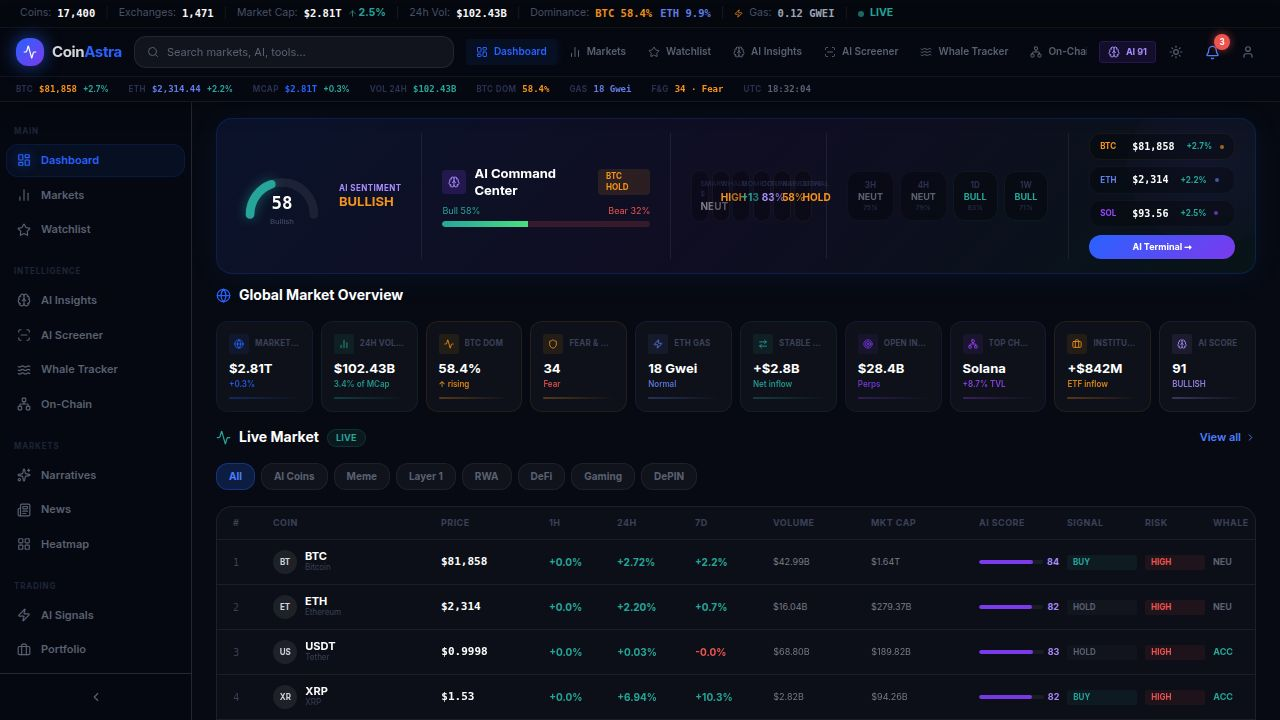
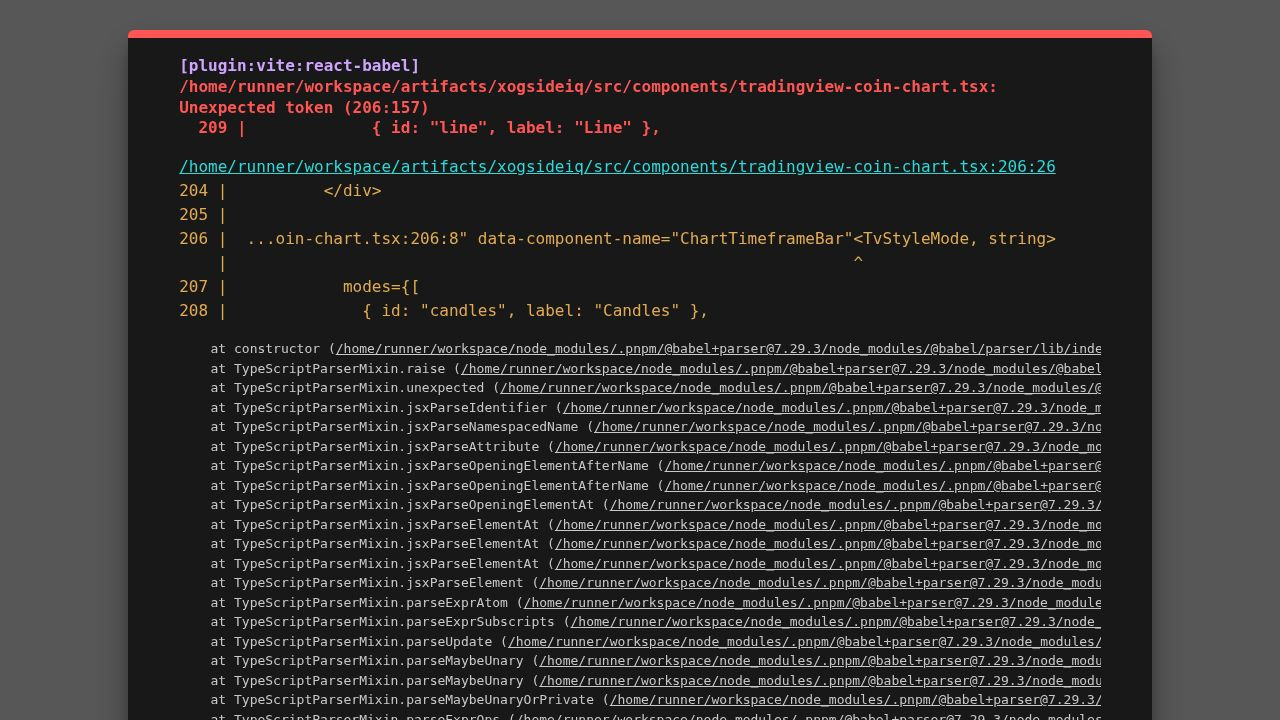
Add gainers/losers tabs and FDV column to markets, and update token detail page header
Fixes a parsing error in tradingview-coin-chart.tsx and introduces a new CmcPriceHeader component in TokenDetail.tsx.

Replit-Commit-Author: Agent
Replit-Commit-Session-Id: 6abcf71e-e9da-4331-b3f6-c0f710a376c0
Replit-Commit-Checkpoint-Type: full_checkpoint
Replit-Commit-Event-Id: 51d0d824-1ff5-43e8-bd0b-7a1c3c13a612
Replit-Commit-Screenshot-Url: https://storage.googleapis.com/screenshot-production-us-central1/58aa7ada-ad68-4616-864a-16e70d457b46/6abcf71e-e9da-4331-b3f6-c0f710a376c0/W70uO0z
Replit-Helium-Checkpoint-Created: true

diff --git a/artifacts/xogsideiq/src/pages/TokenDetail.tsx b/artifacts/xogsideiq/src/pages/TokenDetail.tsx
@@ -688,6 +688,190 @@ function HoldersSection() {
   );
 }
 
+// ── CMC-Style Price Header ─────────────────────────────────────────────────────
+
+function CmcPriceHeader({ live, symbol, isFetchingLive }: { live: CoinLiveData | undefined; symbol: string; isFetchingLive: boolean }) {
+  const price = live?.price;
+  const ch24 = live?.priceChange24h ?? 0;
+  const high24 = live?.high24h;
+  const low24 = live?.low24h;
+  const ath = live?.ath;
+  const atl = live?.atl;
+  const isUp = ch24 >= 0;
+
+  const rangePos =
+    high24 != null && low24 != null && high24 !== low24 && price != null
+      ? Math.min(100, Math.max(0, ((price - low24) / (high24 - low24)) * 100))
+      : null;
+
+  const athPos =
+    ath != null && atl != null && ath !== atl && price != null && ath > 0
+      ? Math.min(100, Math.max(0, ((price - atl) / (ath - atl)) * 100))
+      : null;
+
+  const supplyPct =
+    live?.circulatingSupply && live?.maxSupply && live.maxSupply > 0
+      ? Math.min(100, (live.circulatingSupply / live.maxSupply) * 100)
+      : null;
+
+  return (
+    <div className="rounded-2xl p-5 mb-4" style={{ background: "rgba(10,14,22,0.92)", border: "1px solid rgba(255,255,255,0.07)", borderRadius: 16 }}>
+      {/* Header row */}
+      <div className="flex items-start justify-between gap-4 flex-wrap mb-4">
+        <div className="flex items-center gap-3">
+          {live?.image && (
+            <img src={live.image} alt={live.name ?? symbol} className="w-10 h-10 rounded-full shrink-0"
+              style={{ boxShadow: "0 0 12px rgba(0,0,0,0.5)" }} />
+          )}
+          <div>
+            <div className="flex items-center gap-2">
+              <span className="text-[16px] font-black text-white">{live?.name ?? symbol}</span>
+              <span className="text-[11px] font-semibold uppercase px-1.5 py-0.5 rounded-md"
+                style={{ background: "rgba(255,255,255,0.06)", color: "#5a6072" }}>{symbol}</span>
+              {live?.rank && (
+                <span className="text-[10px] font-mono px-1.5 py-0.5 rounded-md"
+                  style={{ background: "rgba(41,98,255,0.12)", color: "#4d7fff", border: "1px solid rgba(41,98,255,0.2)" }}>
+                  Rank #{live.rank}
+                </span>
+              )}
+            </div>
+            {live?.categories && live.categories.length > 0 && (
+              <div className="flex flex-wrap gap-1 mt-1">
+                {live.categories.slice(0, 3).map(c => (
+                  <span key={c} className="text-[9px] px-1.5 py-0.5 rounded-md font-semibold"
+                    style={{ background: "rgba(124,58,237,0.12)", color: "#9f7aea", border: "1px solid rgba(124,58,237,0.2)" }}>{c}</span>
+                ))}
+              </div>
+            )}
+          </div>
+        </div>
+
+        {/* Quick stats */}
+        <div className="flex items-center gap-4 flex-wrap">
+          <div className="text-right">
+            <div className="text-[9px] uppercase tracking-wider font-semibold" style={{ color: "#4a5068" }}>Market Cap</div>
+            <div className="text-[13px] font-bold text-white font-mono">{fmtB(live?.marketCap)}</div>
+          </div>
+          <div className="text-right">
+            <div className="text-[9px] uppercase tracking-wider font-semibold" style={{ color: "#4a5068" }}>Volume 24h</div>
+            <div className="text-[13px] font-bold text-white font-mono">{fmtB(live?.volume24h)}</div>
+          </div>
+          {live?.fdv != null && live.fdv > 0 && (
+            <div className="text-right">
+              <div className="text-[9px] uppercase tracking-wider font-semibold" style={{ color: "#4a5068" }}>FDV</div>
+              <div className="text-[13px] font-bold text-white font-mono">{fmtB(live.fdv)}</div>
+            </div>
+          )}
+        </div>
+      </div>
+
+      {/* Price row */}
+      <div className="flex items-end gap-3 mb-4 flex-wrap">
+        <div className="text-[36px] font-black text-white font-mono tabular-nums tracking-tight leading-none">
+          {isFetchingLive && !price ? (
+            <div className="h-9 w-48 rounded-xl animate-pulse" style={{ background: "rgba(255,255,255,0.08)" }} />
+          ) : (
+            fmtP(price)
+          )}
+        </div>
+        <div className="flex items-center gap-2 mb-1">
+          <span className="flex items-center gap-1 px-2.5 py-1 rounded-lg text-[13px] font-black"
+            style={{
+              background: isUp ? "rgba(38,166,154,0.15)" : "rgba(239,83,80,0.15)",
+              color: isUp ? "#26a69a" : "#ef5350",
+              border: `1px solid ${isUp ? "rgba(38,166,154,0.25)" : "rgba(239,83,80,0.25)"}`,
+            }}>
+            {isUp ? <ArrowUp size={13} /> : <ArrowDown size={13} />}
+            {Math.abs(ch24).toFixed(2)}%
+          </span>
+          <span className="text-[10px]" style={{ color: "#4a5068" }}>24h change</span>
+          {live?.priceChange7d != null && (
+            <span className="flex items-center gap-0.5 px-2 py-0.5 rounded-lg text-[11px] font-bold"
+              style={{
+                background: live.priceChange7d >= 0 ? "rgba(38,166,154,0.08)" : "rgba(239,83,80,0.08)",
+                color: live.priceChange7d >= 0 ? "#26a69a" : "#ef5350",
+              }}>
+              {live.priceChange7d >= 0 ? "+" : ""}{live.priceChange7d.toFixed(2)}% 7d
+            </span>
+          )}
+        </div>
+      </div>
+
+      {/* 24h Price Range Bar */}
+      {high24 != null && low24 != null && (
+        <div className="mb-3">
+          <div className="flex justify-between items-center mb-1.5">
+            <span className="text-[9px] uppercase tracking-wider font-semibold" style={{ color: "#4a5068" }}>24h Range</span>
+            <div className="flex items-center gap-2 text-[10px] font-mono">
+              <span style={{ color: "#ef5350" }}>{fmtP(low24)}</span>
+              <span style={{ color: "#3a4058" }}>—</span>
+              <span style={{ color: "#26a69a" }}>{fmtP(high24)}</span>
+            </div>
+          </div>
+          <div className="relative h-1.5 rounded-full" style={{ background: "rgba(255,255,255,0.07)" }}>
+            <div className="absolute h-full rounded-full"
+              style={{ width: `${Math.max(2, Math.min(98, rangePos ?? 50))}%`,
+                background: "linear-gradient(90deg, #ef5350, #f7931a 50%, #26a69a)" }} />
+            <div className="absolute top-1/2 -translate-y-1/2 w-2.5 h-2.5 rounded-full border-2 border-white shadow-lg"
+              style={{ left: `${Math.max(2, Math.min(96, rangePos ?? 50))}%`,
+                transform: "translate(-50%, -50%)", background: "#fff",
+                boxShadow: "0 0 6px rgba(255,255,255,0.4)" }} />
+          </div>
+        </div>
+      )}
+
+      {/* ATH / ATL Range Bar */}
+      {ath != null && ath > 0 && atl != null && atl > 0 && (
+        <div className="mb-3">
+          <div className="flex justify-between items-center mb-1.5">
+            <span className="text-[9px] uppercase tracking-wider font-semibold" style={{ color: "#4a5068" }}>All-Time Range</span>
+            <div className="flex items-center gap-2 text-[9px] font-mono">
+              <span style={{ color: "#4a5068" }}>ATL: {fmtP(atl)}</span>
+              <span style={{ color: "#3a4058" }}>→</span>
+              <span style={{ color: "#4a5068" }}>ATH: {fmtP(ath)}</span>
+              {live?.athChange != null && (
+                <span style={{ color: "#ef5350" }}>({fmtPct(live.athChange)} from ATH)</span>
+              )}
+            </div>
+          </div>
+          <div className="relative h-1 rounded-full" style={{ background: "rgba(255,255,255,0.06)" }}>
+            <div className="absolute h-full rounded-full"
+              style={{ width: `${Math.max(1, Math.min(99, athPos ?? 50))}%`,
+                background: "linear-gradient(90deg, #ef5350, #f7931a, #2962ff, #26a69a)" }} />
+          </div>
+          <div className="flex justify-between text-[8px] mt-1 font-mono" style={{ color: "#3a4058" }}>
+            <span>ATL</span>
+            <span>ATH</span>
+          </div>
+        </div>
+      )}
+
+      {/* Circulating Supply Bar */}
+      {supplyPct != null && live?.circulatingSupply && (
+        <div>
+          <div className="flex justify-between items-center mb-1.5">
+            <span className="text-[9px] uppercase tracking-wider font-semibold" style={{ color: "#4a5068" }}>Circulating Supply</span>
+            <div className="flex items-center gap-2 text-[9px] font-mono">
+              <span className="text-white">{supplyPct.toFixed(1)}%</span>
+              <span style={{ color: "#4a5068" }}>
+                {live.circulatingSupply >= 1e9
+                  ? `${(live.circulatingSupply / 1e9).toFixed(2)}B`
+                  : `${(live.circulatingSupply / 1e6).toFixed(2)}M`} {symbol}
+                {live.maxSupply ? ` / ${live.maxSupply >= 1e9 ? `${(live.maxSupply / 1e9).toFixed(2)}B` : `${(live.maxSupply / 1e6).toFixed(2)}M`} max` : ""}
+              </span>
+            </div>
+          </div>
+          <div className="h-1.5 rounded-full overflow-hidden" style={{ background: "rgba(255,255,255,0.07)" }}>
+            <div className="h-full rounded-full transition-all duration-700"
+              style={{ width: `${supplyPct}%`,
+                background: supplyPct > 80 ? "#26a69a" : supplyPct > 50 ? "#2962ff" : "#f7931a" }} />
+          </div>
+        </div>
+      )}
+    </div>
+  );
+}
+
 // ── Main Component ─────────────────────────────────────────────────────────────
 
 export default function TokenDetail() {
@@ -750,6 +934,7 @@ export default function TokenDetail() {
       {metaLoading && !live ? (
         <div className="grid grid-cols-1 xl:grid-cols-[minmax(0,1fr)_400px] gap-4">
           <div className="space-y-4">
+            <Skeleton className="h-40 w-full rounded-2xl animate-pulse" />
             <Skeleton className="h-10 w-full rounded-2xl animate-pulse" />
             <Skeleton className="h-[400px] w-full rounded-2xl animate-pulse" />
             <Skeleton className="h-64 w-full rounded-2xl animate-pulse" />
@@ -759,6 +944,7 @@ export default function TokenDetail() {
       ) : (
         <div className="grid grid-cols-1 xl:grid-cols-[minmax(0,1fr)_400px] gap-4 items-start">
           <div className="space-y-4 min-w-0">
+            <CmcPriceHeader live={live} symbol={symbol} isFetchingLive={isFetchingLive} />
             <WorkspaceNav />
             <TradingViewCoinChart
               coinId={cid}

diff --git a/artifacts/xogsideiq/src/pages/Markets.tsx b/artifacts/xogsideiq/src/pages/Markets.tsx
@@ -71,6 +71,8 @@ const CATEGORY_MAP: Record<string, string | null> = {
   "All":           null,
   "Trending":      "__trending__",
   "New Listings":  "__new__",
+  "Gainers":       "__gainers__",
+  "Losers":        "__losers__",
   "DeFi":          "decentralized-finance-defi",
   "Layer 1":       "layer-1",
   "Layer 2":       "layer-2",
@@ -518,7 +520,7 @@ function TabletSkelRow({ i }: { i:number }) {
 function DeskSkelRow({ i }: { i:number }) {
   return (
     <tr className="animate-pulse border-b" style={{ borderColor:"rgba(255,255,255,0.04)", animationDelay:`${i*35}ms` }}>
-      {[12,10,150,90,60,65,65,100,100,130,80].map((w,j) => (
+      {[12,10,150,90,60,65,65,100,100,100,130,80].map((w,j) => (
         <td key={j} className="px-3 py-3.5">
           <div className="h-3 rounded-md" style={{ width:w, background:"rgba(255,255,255,0.06)" }} />
         </td>
@@ -574,7 +576,9 @@ export default function Markets() {
   const activeCategoryId = CATEGORY_MAP[category] ?? null;
   const isTrendingMode = activeCategoryId === "__trending__";
   const isNewListingsMode = activeCategoryId === "__new__";
-  const isCategoryMode = activeCategoryId !== null && !isTrendingMode && !isNewListingsMode;
+  const isGainersMode = activeCategoryId === "__gainers__";
+  const isLosersMode = activeCategoryId === "__losers__";
+  const isCategoryMode = activeCategoryId !== null && !isTrendingMode && !isNewListingsMode && !isGainersMode && !isLosersMode;
   const optimizedAll = !activeCategoryId && category === "All";
 
   const {
@@ -621,6 +625,23 @@ export default function Markets() {
     retry: 1,
   });
 
+  const { data: moversCoins, isLoading: moversLoading } = useQuery({
+    queryKey: ["cg-movers", isGainersMode ? "gainers" : "losers"],
+    queryFn: async (): Promise<CoinMarket[]> => {
+      const r = await fetch(`/api/coins/markets?per_page=250&page=1&sparkline=true&price_change_percentage=1h,7d`);
+      if (!r.ok) throw new Error(`movers ${r.status}`);
+      const data: CoinMarket[] = await r.json();
+      return data.sort((a, b) =>
+        isGainersMode
+          ? b.price_change_percentage_24h - a.price_change_percentage_24h
+          : a.price_change_percentage_24h - b.price_change_percentage_24h
+      );
+    },
+    enabled: isGainersMode || isLosersMode,
+    staleTime: 60_000,
+    retry: 1,
+  });
+
   const isSearchMode = debouncedSearch.length >= 1 && !optimizedAll;
   const { data: liveSearchData, isFetching: searchFetching } = useQuery({
     queryKey: ["cg-search-markets", debouncedSearch],
@@ -655,11 +676,13 @@ export default function Markets() {
     ? (trendingCoins ?? [])
     : isNewListingsMode
       ? (newListingCoins ?? [])
-      : isCategoryMode
-        ? (categoryCoins ?? [])
-        : optimizedAll
-          ? (opt.rows as CoinMarket[])
-          : (coins ?? []);
+      : isGainersMode || isLosersMode
+        ? (moversCoins ?? [])
+        : isCategoryMode
+          ? (categoryCoins ?? [])
+          : optimizedAll
+            ? (opt.rows as CoinMarket[])
+            : (coins ?? []);
 
   const tickAt = optimizedAll ? opt.priceUpdatedAt : dataUpdatedAt;
 
@@ -670,7 +693,8 @@ export default function Markets() {
     isLoading ||
     categoryLoading ||
     trendingLoading ||
-    newListingsLoading;
+    newListingsLoading ||
+    moversLoading;
 
   const refetchMarketsList = useCallback(() => {
     if (optimizedAll) opt.refetchPrices();
@@ -738,7 +762,9 @@ export default function Markets() {
       ? trendingLoading && baseCoins.length === 0
       : isNewListingsMode
         ? newListingsLoading && baseCoins.length === 0
-        : isLoading || (isCategoryMode && categoryLoading);
+        : isGainersMode || isLosersMode
+          ? moversLoading && baseCoins.length === 0
+          : isLoading || (isCategoryMode && categoryLoading);
 
   const marketsListError = optimizedAll
     ? opt.isError
@@ -1490,7 +1516,7 @@ export default function Markets() {
               style={{ background:"rgba(10,14,22,0.75)", backdropFilter:"blur(24px)",
                 border:"1px solid rgba(255,255,255,0.05)", boxShadow:"0 24px 80px rgba(0,0,0,0.5)" }}>
               <div className="overflow-x-auto">
-                <table className="w-full" style={{ minWidth:960 }}>
+                <table className="w-full" style={{ minWidth:1080 }}>
                   <thead style={{ background:"rgba(8,12,22,0.95)", position:"sticky", top:0, zIndex:20,
                     borderBottom:"1px solid rgba(255,255,255,0.06)", backdropFilter:"blur(20px)" }}>
                     <tr>
@@ -1503,6 +1529,7 @@ export default function Markets() {
                       <SortTH label="7d %" sk="ch7d" sortKey={sortKey} sortDir={sortDir} onSort={handleSort} right />
                       <SortTH label="Market Cap" sk="mcap" sortKey={sortKey} sortDir={sortDir} onSort={handleSort} right />
                       <SortTH label="Volume 24h" sk="vol" sortKey={sortKey} sortDir={sortDir} onSort={handleSort} right />
+                      <SortTH label="FDV" sortKey={sortKey} sortDir={sortDir} onSort={handleSort} right />
                       <SortTH label="Circulating Supply" sortKey={sortKey} sortDir={sortDir} onSort={handleSort} right />
                       <SortTH label="7 Days" sortKey={sortKey} sortDir={sortDir} onSort={handleSort} right />
                     </tr>
@@ -1533,7 +1560,7 @@ export default function Markets() {
                                     </div>
                                   </div>
                                 </td>
-                                <td colSpan={8} className="px-3 py-3.5 text-right text-[11px]" style={{ color:"#4a5068" }}>
+                                <td colSpan={9} className="px-3 py-3.5 text-right text-[11px]" style={{ color:"#4a5068" }}>
                                   Click to view full chart →
                                 </td>
                               </motion.tr>
@@ -1584,6 +1611,9 @@ export default function Markets() {
                                 <td className="px-3 py-3.5 text-right">
                                   <div className="text-[11px] font-mono text-[#d1d4dc] tabular-nums">{fmtLarge(coin.total_volume)}</div>
                                   {coin.market_cap>0 && <div className="text-[8px] mt-0.5" style={{ color:"#5a6072" }}>{((coin.total_volume/coin.market_cap)*100).toFixed(1)}% of cap</div>}
+                                </td>
+                                <td className="px-3 py-3.5 text-right text-[11px] font-mono text-[#d1d4dc] tabular-nums">
+                                  {coin.fully_diluted_valuation ? fmtLarge(coin.fully_diluted_valuation) : <span style={{ color:"#3a4058" }}>—</span>}
                                 </td>
                                 <td className="px-3 py-3.5 text-right" style={{ minWidth:130 }}>
                                   <div className="text-[10px] font-mono text-[#d1d4dc] tabular-nums">{fmtSupply(coin.circulating_supply,coin.symbol)}</div>

diff --git a/artifacts/xogsideiq/src/components/mobile-nav.tsx b/artifacts/xogsideiq/src/components/mobile-nav.tsx
@@ -4,13 +4,13 @@ import { motion, AnimatePresence } from "framer-motion";
 import { LayoutDashboard, BarChart2, Brain, Star, Briefcase, Bell, Globe } from "lucide-react";
 
 const TABS = [
-  { path: "/",           icon: LayoutDashboard, label: "Home",     color: "#2962ff" },
-  { path: "/markets",    icon: BarChart2,        label: "Markets",  color: "#26a69a" },
-  { path: "/discover",   icon: Globe,            label: "Discover", color: "#4d7fff" },
-  { path: "/ai-insights",icon: Brain,            label: "AI",       color: "#7c3aed" },
-  { path: "/watchlist",  icon: Star,             label: "Watch",    color: "#f7931a" },
-  { path: "/portfolio",  icon: Briefcase,        label: "Portfolio",color: "#26a69a" },
-  { path: "/alerts",     icon: Bell,             label: "Alerts",   color: "#ef5350" },
+  { path: "/",           icon: LayoutDashboard, label: "Home",     color: "#2962ff",  badge: null },
+  { path: "/markets",    icon: BarChart2,        label: "Markets",  color: "#26a69a",  badge: "live" },
+  { path: "/discover",   icon: Globe,            label: "Discover", color: "#4d7fff",  badge: null },
+  { path: "/ai-insights",icon: Brain,            label: "AI",       color: "#7c3aed",  badge: null },
+  { path: "/watchlist",  icon: Star,             label: "Watch",    color: "#f7931a",  badge: null },
+  { path: "/portfolio",  icon: Briefcase,        label: "Portfolio",color: "#26a69a",  badge: null },
+  { path: "/alerts",     icon: Bell,             label: "Alerts",   color: "#ef5350",  badge: "alert" },
 ];
 
 export function MobileNav() {
@@ -54,8 +54,12 @@ export function MobileNav() {
                         transition={{ type: "spring", stiffness: 500, damping: 34 }}
                       />
                     )}
+                    {/* Live dot for Markets */}
+                    {tab.badge === "live" && (
+                      <div className="absolute -top-0.5 -right-0.5 w-2 h-2 rounded-full border border-[rgba(5,8,16,0.9)] z-20 animate-pulse" style={{ background: "#26a69a" }} />
+                    )}
                     {/* Notification dot for Alerts */}
-                    {tab.label === "Alerts" && (
+                    {tab.badge === "alert" && (
                       <div className="absolute -top-0.5 -right-0.5 w-2 h-2 rounded-full bg-[#ef5350] border border-[rgba(5,8,16,0.9)] z-20 animate-pulse" />
                     )}
                     <motion.div

diff --git a/artifacts/xogsideiq/src/components/tradingview-coin-chart.tsx b/artifacts/xogsideiq/src/components/tradingview-coin-chart.tsx
@@ -215,16 +215,16 @@ export function TradingViewCoinChart({ coinId, symbol, live, onChartRevalidate }
           </div>
         </div>
 
-        <ChartTimeframeBar<TvStyleMode, string>
+        <ChartTimeframeBar
           modes={[
             { id: "candles", label: "Candles" },
             { id: "line", label: "Line" },
           ]}
           activeMode={styleMode}
-          onModeChange={setStyleMode}
+          onModeChange={(m) => setStyleMode(m as TvStyleMode)}
           timeframes={TV_TIMEFRAMES}
           activeTf={interval}
-          onTfChange={setInterval}
+          onTfChange={(tf) => setInterval(tf as string)}
         />
 
         <div className="flex flex-wrap items-center gap-2 text-[10px]" style={{ color: "#6b7389" }}>